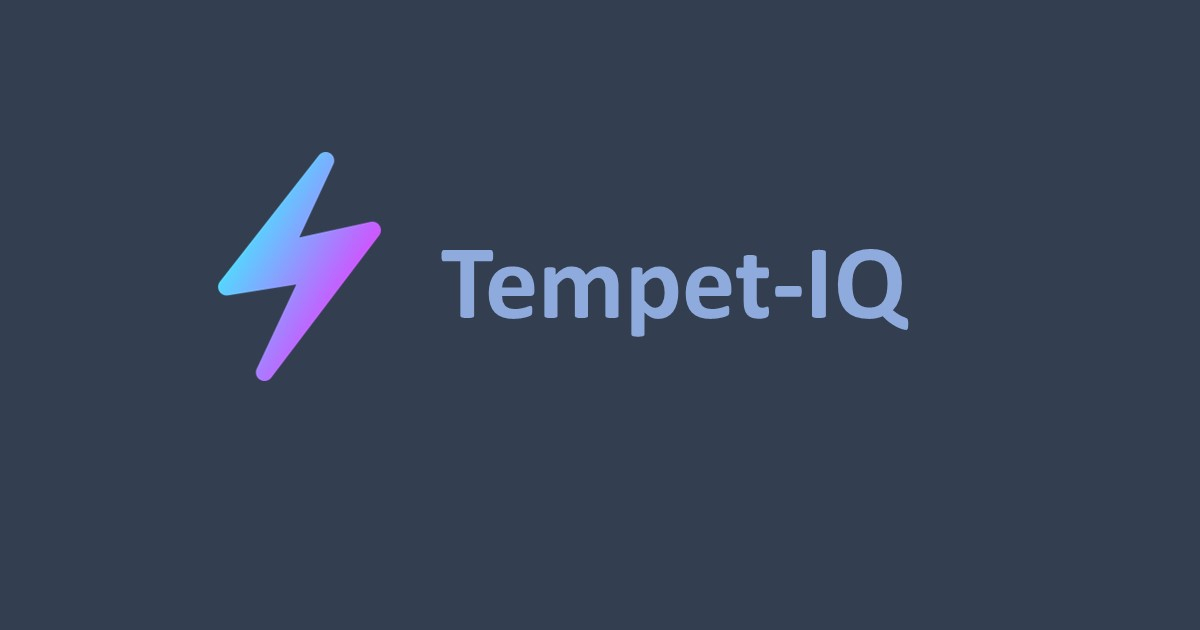
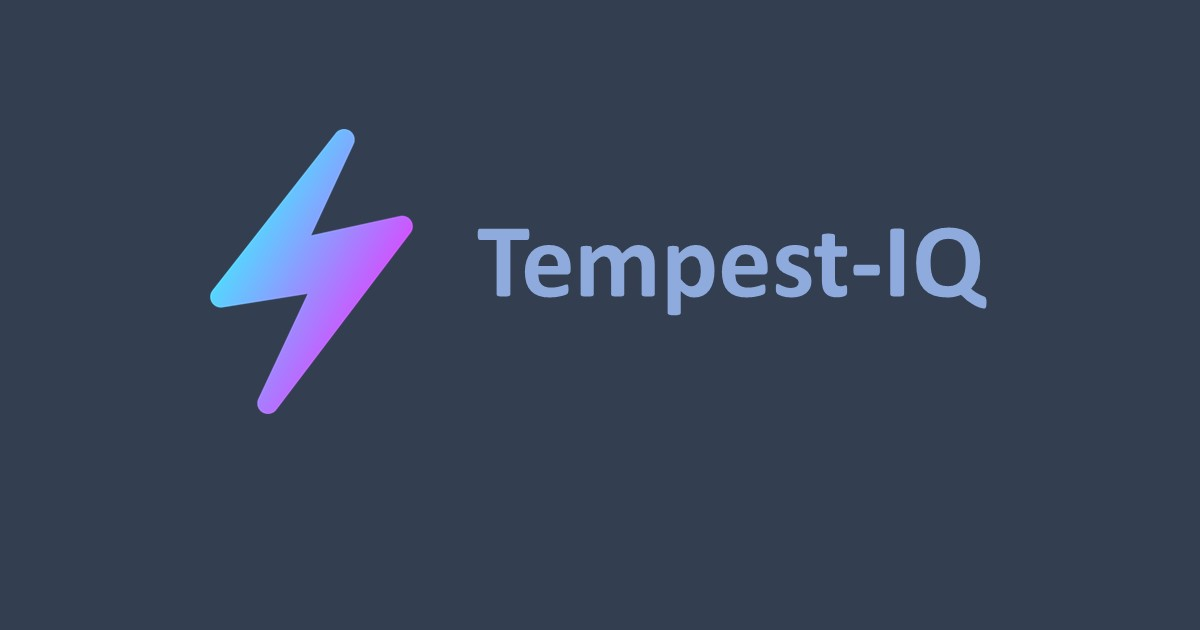
fixing app name

Changed region(s): [[0.37, 0.3619, 0.8325, 0.5429], [0.1542, 0.3317, 0.3392, 0.6635], [0.2467, 0.2111, 0.3083, 0.3921]]

diff --git a/src/component/Settings.tsx b/src/component/Settings.tsx
@@ -83,7 +83,7 @@ export default function Settings(){
         <div className="flex flex-col items-start gap-5 px-20 pt-7 pb-14 max-md:px-10 max-sm:px-5">
             <div className="flex flex-col items-stretch gap-2 w-full">
                 {Object.entries(settings).map(([key, value])=>(
-                    <div key={key} className='flex flex-row justify-between w-[90%] items-center px-10 max-sm:px-7 py-5 shadow-md shadow-black rounded-lg'>
+                    <div key={key} className='flex flex-row justify-between w-[90%] max-sm:w-[95%] items-center px-10 max-sm:px-7 py-5 shadow-md shadow-black rounded-lg'>
                         <div>
                             <h4>{configtitle(key)}</h4>
                             <p className='opacity-70'>{configUnits(key, value)}</p>
@@ -112,13 +112,13 @@ export default function Settings(){
 
         
             <div className='flex flex-col gap-3'>
-            <h3 className='opacity-80'>About tempet Iq</h3>
-            <p>Tempet Iq is a showcase of my next.js(react) expertise and API integration,
+            <h3 className='opacity-80'>About tempestIQ</h3>
+            <p>TempestIQ is a showcase of my next.js(react) expertise and API integration,
                  demonstrating my proficiency in modern web development.
                  With a sleek and responsive design, the app provides real-time weather
                   updates using external APIs, 
                  allowing users to stay informed about current conditions and forecasts worldwide. 
-                 Tempet Iq reflects a commitment to user-centric design, 
+                 TempestIQ reflects a commitment to user-centric design, 
                  offering an intuitive interface and seamless navigation.<br/> <br/> For more projects showcasing my  skills, 
                 visit <button><a href="https://austinemark.netlify.app">my website</a> </button>and
                  experience the blend of functionality, aesthetics, and technical excellence firsthand.</p>

diff --git a/src/component/Weather.tsx b/src/component/Weather.tsx
@@ -202,18 +202,18 @@ function WeatherComonent(){
                         {temperatureUnitChart(Number(current?.temperature))}<span className="justify-self-start">°</span>
                     </h2>
                 </div>
-                <div className="flex items-center justify-center gap-7 max-md:gap-5 max-sm:gap-3">
+                <div className="flex items-center justify-center gap-7 max-md:gap-5 max-sm:flex-col max-sm:items-start max-sm:gap-2">
                     <p className=" flex gap-1.5 items-center max-sm:gap-0.5">
                         <HelperIcon icon="feelslike" /> <span className="opacity-85">Feels like</span>
                         {temperatureUnit(Number(current?.temperatureApparent))}
+                    </p>
+                    <p className="flex items-center gap-1.5 max-sm:gap-0.5" >
+                        <HelperIcon icon="humidity"/><span className="opacity-80">Humidity</span> {Math.floor(Number(current?.humidity))}
                     </p>
                     <p className=" flex gap-1.5 items-center max-sm:gap-0.5">
                         <HelperIcon icon="wind"/> {!(current.windSpeed <3) &&<>{formatWindDirection(current?.windDirection)}</>} 
                         <span  className="opacity-80">{formatWind(current?.windSpeed)}</span>
                         {speedUnit(Number(current?.windSpeed))}
-                    </p>
-                    <p className="flex items-center gap-1.5 max-sm:gap-0.5" >
-                        <HelperIcon icon="humidity"/><span className="opacity-80">Humidity</span> {Math.floor(Number(current?.humidity))}
                     </p>
                 </div>
             </div>

diff --git a/src/app/not-found.tsx b/src/app/not-found.tsx
@@ -2,11 +2,11 @@ import Link from "next/link";
 import type { Metadata } from "next";
 
 export const metadata: Metadata = {
-    title: 'not found in tempetiq',
+    title: 'not found in tempestiq',
     description: 'page does not exist but tempet iq provides you with quick detailed and easily interprateble forecast data for any location in the world',
     openGraph: {
-       title:'not found in weather rush',
-       images: ['https://tempetiq.netlify.app/opengraph.jpg'],
+       title:'not found in tempestiq',
+       images: ['https://tempestiq.netlify.app/opengraph.jpg'],
        description: 'page does not exist but tempet iq provides you with quick detailed and easily interprateble forecast data for any location in the world'
     }
  }
@@ -14,7 +14,7 @@ export const metadata: Metadata = {
 export default function NotFound(){
     return(
         <div className="flex flex-col items-start gap-5 absolute left-[50%] top-[50%] transform translate-[-50%]">
-            <h2>welcome to tempetiq</h2>
+            <h2>welcome to tempest IQ</h2>
             <p>we couldn't find the page but click on the buttton below to get you favorite summerized data.</p>
             <button><Link href='/'>get data</Link></button>
         </div>

diff --git a/src/app/settings/page.tsx b/src/app/settings/page.tsx
@@ -1,12 +1,12 @@
 import Settings from "@/component/Settings";
 import type { Metadata } from "next";
 export const metadata: Metadata = {
-    title: 'tempet iq settings',
-    description: 'tempet iq provides you with quick detailed and easily interprateble forecast data for any location in the world',
+    title: 'tempest IQ settings',
+    description: 'tempestIQ provides you with quick detailed and easily interprateble forecast data for any location in the world',
     openGraph: {
-       title:'tempet iq settings',
-       images: ['https://tempetiq.netlify.app/opengraph.jpg'],
-       description: 'tempet iq provides you with quick detailed and easily interprateble forecast data for any location in the world'
+       title:'tempest IQ settings',
+       images: ['https://tempestiq.netlify.app/opengraph.jpg'],
+       description: 'tempestIQ provides you with quick detailed and easily interprateble forecast data for any location in the world'
     }
  }
 

diff --git a/src/app/api/og/route.tsx b/src/app/api/og/route.tsx
@@ -7,7 +7,7 @@ export const runtime = 'edge';
 export async function GET(req: NextRequest) {
    const {searchParams} = new URL(req.url)
    const location = searchParams.get('location') || 'Nairobi'
-   const imageUrl = 'https://weatherrush.netlify.app/logo512.png'
+   const imageUrl = 'https://tempestiq.netlify.app/thunder.png'
     return new ImageResponse(
        <div style={{
             display:'flex',
@@ -26,7 +26,7 @@ export async function GET(req: NextRequest) {
         <img src={imageUrl} style={{width: '250px', height: '250px'}} alt='background image'/>
        
         <div style={{display: 'flex', flexDirection: 'column', alignItems: 'center', justifyContent: 'center', gap: '5px'}}>
-            <h1>Tempet Iq - <span style={{color: '#42b0f5', opacity: 0.8}}>{location}</span></h1>
+            <h1>Tempest Iq - <span style={{color: '#42b0f5', opacity: 0.8}}>{location}</span></h1>
         </div>
         </div>,{
             width: 1200,

diff --git a/src/app/page.tsx b/src/app/page.tsx
@@ -2,12 +2,12 @@ import Home from "@/component/Home";
 import type { Metadata } from "next";
 
 export const metadata: Metadata = {
-   title: 'weather rush',
-   description: 'weather rush provides you with quick detailed and easily interprateble weather data for any location in the world',
+   title: 'Tempest IQ',
+   description: 'tempestIQ provides you with ai sammerized quick detailed and easily interprateble forecast data for any location in the world',
    openGraph: {
-      title:'weather rush',
-      images: ['https://weatherrush.netlify.app/opengraph.jpg'],
-      description: 'weather rush provides you with quick detailed and easily interprateble weather data for any location in the world'
+      title:'Tempest IQ',
+      images: ['https://tempestiq.netlify.app/opengraph.jpg'],
+      description: 'tempestIQ provides you with ai sammerized quick detailed and easily interprateble forecast data for any location in the world'
    }
 }
 

diff --git a/src/app/weather/page.tsx b/src/app/weather/page.tsx
@@ -21,8 +21,8 @@ export async function generateMetadata(
     openGraph: {
       title: `${decodedLocationName} Sky`,
       description: `Get the latest forecast for ${decodedLocationName.toUpperCase()}, summarized by smart ai, easy to read and interpret.`,
-      url: `https://tempetiq.netlify.app/weather?locationId=${locationId}&name=${encodeURIComponent(decodedLocationName)}`,
-      images: [`https://tempetiq.netlify.app/api/og?location=${encodeURIComponent(decodedLocationName)}`],
+      url: `https://tempestiq.netlify.app/weather?locationId=${locationId}&name=${encodeURIComponent(decodedLocationName)}`,
+      images: [`https://tempestiq.netlify.app/api/og?location=${encodeURIComponent(decodedLocationName)}`],
     },
   };
 }

diff --git a/src/component/Header.tsx b/src/component/Header.tsx
@@ -29,7 +29,7 @@ export default function Header() {
         }
     }, [pathname]);
 
-    let title = locationName ? decodeURIComponent(locationName) : "tempet IQ";
+    let title = locationName ? decodeURIComponent(locationName) : "tempest IQ";
     if (pathname === "/settings") title = "Settings";
     
     
@@ -53,7 +53,7 @@ export default function Header() {
     if( typeof window !== 'undefined'){
         const weatherUrl= window.location.href;
             navigator.share({
-                title: 'Weather update Alert',
+                title: 'Forecast Alert',
                 text: "Check out the latest sky over my location",
                 url: weatherUrl,
             })

diff --git a/src/app/layout.tsx b/src/app/layout.tsx
@@ -23,7 +23,7 @@ export default function RootLayouts({ children }: { children: React.ReactNode })
     <html lang="en" className={`${inter.variable}`}>
       <head>
       <meta name="google-site-verification" content="LUkKqWSPj-9G4-wQcv2ohaT20kb7pKJqAv9eM24m2H8" />
-      <link rel="canonical" href="https://tempetiq.netlify.app" />
+      <link rel="canonical" href="https://tempestiq.netlify.app" />
       </head>
       <body className={`${size === 'bold' ? 'text-lg max-sm:text-[0.9rem]' : 'text-base max-sm:text-[0.785rem]'}`}>
         <Header/>

diff --git a/src/app/manifest.ts b/src/app/manifest.ts
@@ -2,8 +2,9 @@ import type { MetadataRoute } from "next"
 
 export default function manifest(): MetadataRoute.Manifest{
     return {
-        short_name: "tempetiq",
-        name: "Tempet IQ",
+        short_name: "tempIQ",
+        name: "TempestIQ - Smart Forecast",
+        description: "Accurate forecast insights and summeries powererd by intelligence",
         icons: [
           {
             src: "favicon.ico",
